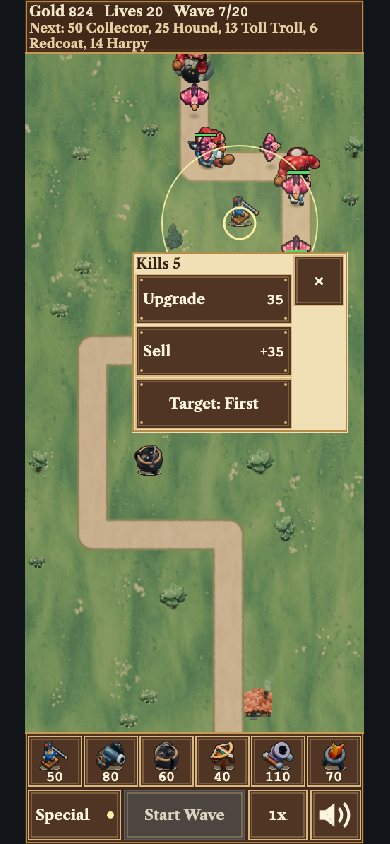
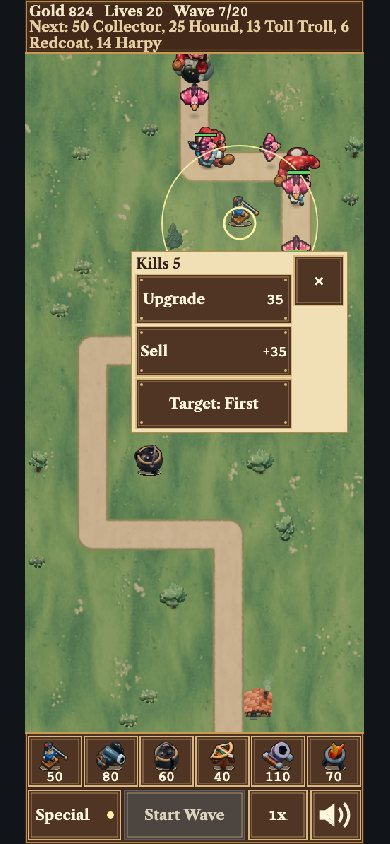
Keep refunds separated and long phone previews at reading size

Changed region(s): [[0.3077, 0.2773, 0.8923, 0.5237], [0.0615, 0.0, 0.8923, 0.0616], [0.6769, 0.4005, 0.7385, 0.4313]]

diff --git a/src/game/ui/towerPanel.ts b/src/game/ui/towerPanel.ts
@@ -16,7 +16,7 @@ import { placeBeside, type Rect } from '../input';
 import { fontPx, type Layout } from '../layout';
 import { killsLabel, PANEL_TEXT, targetingButtonText, towerPanelTitle } from '../names';
 import { FONT, TEXT } from '../palette';
-import { ink, panel, THEME } from './theme';
+import { ink, THEME } from './theme';
 import { Button } from './button';
 import { STACK_GAP, STACK_PAD } from './geometry';
 import { getPathChoices, towerPanelSize, UPGRADE_PATHS, type PathChoice } from './towerPanelModel';
@@ -36,7 +36,7 @@ interface Row {
 }
 
 export class TowerPanel {
-  private readonly backing: Phaser.GameObjects.Graphics;
+  private readonly backing: Phaser.GameObjects.Rectangle;
   private readonly upgrade: Button;
   private readonly undo: Button;
   private readonly sell: Button;
@@ -60,10 +60,11 @@ export class TowerPanel {
     const f = (px: number) => fontPx(layout, layout.kind === 'portrait' ? Math.max(20, px) : px);
     const rect = { x: 0, y: 0, width: 1, height: 1 };
     const portrait = layout.kind === 'portrait';
-    this.backing = scene.add.graphics().setVisible(false);
+    this.backing = scene.add.rectangle(0, 0, 1, 1, THEME.paper)
+      .setOrigin(0).setStrokeStyle(2, THEME.brass).setVisible(false);
     this.upgrade = new Button(scene, rect, PANEL_TEXT.upgrade, () => handlers.onUpgrade(), { fontSize: f(16), right: '' });
     this.undo = new Button(scene, rect, PANEL_TEXT.undoUpgrade, handlers.onUndoUpgrade, { fontSize: f(14), right: '' });
-    this.sell = new Button(scene, rect, PANEL_TEXT.sell, handlers.onSell, { fontSize: f(16), right: '' });
+    this.sell = new Button(scene, rect, PANEL_TEXT.sell, handlers.onSell, { fontSize: f(16), right: '', labelInset: 6 });
     this.target = new Button(scene, rect, targetingButtonText('first'), () => handlers.onTarget(nextMode(this.mode)), { fontSize: f(13) });
     this.closeButton = new Button(scene, rect, '×', handlers.onClose, { fontSize: portrait ? '30px' : '24px' });
     const pathButton = (path: UpgradePath) => new Button(scene, rect, '', () => handlers.onUpgrade(path), {
@@ -154,7 +155,7 @@ export class TowerPanel {
     if (this.placed?.width !== width || this.placed.height !== height) {
       const location = placeBeside(this.layout.cellCenter(this.at), width, height, state.map, this.layout);
       this.placed = { ...location, width, height };
-      panel(this.backing.clear().setVisible(true), this.placed, THEME.paper);
+      this.backing.setPosition(location.x, location.y).setSize(width, height).setVisible(true);
     }
     const { x, y } = this.placed;
     const left = x + STACK_PAD;

diff --git a/src/game/ui/button.ts b/src/game/ui/button.ts
@@ -15,6 +15,8 @@ import { COLORS, HUD_FONT, TEXT } from '../palette';
 
 export interface ButtonOptions {
   fontSize?: string;
+  /** Horizontal inset for paired labels. */
+  labelInset?: number;
   /** Right-aligned second label; makes the main label left-aligned. */
   right?: string;
   /** Called with true when the pointer enters and false when it leaves (or the button hides). */
@@ -27,8 +29,6 @@ export interface ButtonOptions {
   sound?: SoundName | null;
 }
 
-const PAD_X = 10;
-
 export class Button {
   private readonly box: Phaser.GameObjects.Rectangle;
   private readonly trim: Phaser.GameObjects.Graphics;
@@ -36,6 +36,7 @@ export class Button {
   private readonly rightLabel: Phaser.GameObjects.Text | null;
   private readonly onHover?: (over: boolean) => void;
   private readonly labelY?: number;
+  private readonly labelInset: number;
   private r: Rect;
   private enabled = true;
   private hover = false;
@@ -54,6 +55,7 @@ export class Button {
     this.r = { ...rect };
     this.onHover = options.onHover;
     this.labelY = options.labelY;
+    this.labelInset = options.labelInset ?? 10;
     const style = { fontFamily: HUD_FONT, fontSize: options.fontSize ?? '18px', fontStyle: 'bold', color: TEXT.button };
     this.box = scene.add.rectangle(0, 0, rect.width, rect.height, COLORS.button).setOrigin(0, 0);
     this.trim = scene.add.graphics();
@@ -162,8 +164,8 @@ export class Button {
     }
     const mid = y + (this.labelY ?? this.r.height / 2);
     if (this.rightLabel) {
-      this.label.setPosition(x + PAD_X, mid);
-      this.rightLabel.setPosition(x + this.r.width - PAD_X, mid);
+      this.label.setPosition(x + this.labelInset, mid);
+      this.rightLabel.setPosition(x + this.r.width - this.labelInset, mid);
     } else {
       this.label.setPosition(x + this.r.width / 2, mid);
     }

diff --git a/src/game/hud.ts b/src/game/hud.ts
@@ -342,7 +342,7 @@ export const PORTRAIT_HUD: HudMetrics = (() => {
     statSize: size,
     goldX: 6,
     flowGap: 14,
-    preview: { x: 6, y: 29, width: PORTRAIT_WIDTH - 12, originY: 0 },
+    preview: { x: 6, y: 28, width: PORTRAIT_WIDTH - 12, originY: 0 },
     cheat: { x: PORTRAIT_WIDTH - 6, y: 15, size, originX: 1 },
     gold: { x: 0, y: 0, width: 120, height: 30 },
     special,
@@ -484,7 +484,12 @@ export class Hud {
         this.next.setWordWrapWidth(width, true).setText(preview).setColor(aimText === null ? TEXT.hudDim : TEXT.aimBanner);
         const availableHeight = PORTRAIT_STRIP_H - 2 - m.preview.y;
         for (const size of [20, 19, 18, 16, 14]) {
-          this.next.setFontSize(size);
+          // At 20 px the actual Caslon glyphs in previews and aim hints occupy
+          // 17 px above the baseline and 6 below it. Courier fits inside both.
+          // Two 23 px lines exactly fill the space between the stats and frame.
+          const ascent = Math.ceil(17 * size / 20);
+          const descent = Math.ceil(6 * size / 20);
+          this.next.setStyle({ fontSize: size, metrics: { ascent, descent, fontSize: ascent + descent } });
           if (this.next.height <= availableHeight && this.next.width <= width) break;
         }
       } else this.next.setFontSize(previewSize(preview)).setText(preview);

diff --git a/e2e/theme.ts b/e2e/theme.ts
@@ -79,6 +79,15 @@ export function themeSuite(touch: boolean) {
         const hudRow = phone ? { x: 0, y: 0, width: 480, height: 76 } : { x: 0, y: 480, width: 960, height: 53 };
         const status = await api(page, t => t.hudText());
         await checkLabels(page, [status.gold, status.lives, status.wave, preview], hudRow, /^(special|startWave|speed|boon:)/);
+        if (phone) {
+          const cssSize = await api(page, t => {
+            const scene = t.game.scene.getScene('game');
+            const label = scene.children.list.find(child => child.type === 'Text' &&
+              (child as Phaser.GameObjects.Text).text === t.hudText().next) as Phaser.GameObjects.Text;
+            return Number.parseFloat(label.style.fontSize) * label.scaleY / scene.scale.displayScale.y;
+          });
+          expect(cssSize).toBeGreaterThanOrEqual(14);
+        }
         await shot(campaign ? 'level-9-preview' : 'free-play-wave-20');
         const spawn = lastSpawnTick(wave, campaign ? { level: LEVELS[8] } : undefined);
         await page.evaluate(spawn => {

diff --git a/docs/DESIGN.md b/docs/DESIGN.md
@@ -1227,7 +1227,7 @@ drawn and where touches land differ.
   each the tower's map shape over its cost, because a name at 18 px does
   not fit 75 px) and a row with Special (130 x 70), Start Wave (214 x 70)
   and speed (114 x 70); milestone 33 narrowed Start Wave to 170 and speed
-  to 82 for the 70 x 70 mute button at the row's end ("Sound"). The tower buttons are 4 px apart and the second row's 6 px; both rows start 5 px from the edge. The main portrait controls use 20 px type. The next-wave preview fits two lines in the remaining strip height.
+  to 82 for the 70 x 70 mute button at the row's end ("Sound"). The tower buttons are 4 px apart and the second row's 6 px; both rows start 5 px from the edge. The main portrait controls use 20 px type. The next-wave preview starts at y=28. Two 23 px lines fit above the brass edge at y=74. At 390 × 844 the 20 px type reads at 14.1 CSS px and a 70 px button measures 49.5 CSS px.
   On a 390 x 763 CSS px phone (standalone, inside the safe areas) the
   canvas fits at 0.639: buttons are 44.7 CSS px, 20 px text 12.8 CSS px and a
   map cell 20.5 CSS px. With Safari's bars (390 x 664) the scale is 0.556:
@@ -1766,7 +1766,7 @@ panel with Back or Escape keeps it available on the next Play. Free play skips
 this panel. Test mode follows the same rules unless a test calls
 `setTipsEnabled(false)` to skip first-visit tips.
 
-The build bar keeps every tower in its usual slot. Towers unavailable in
+The paired Remove/Sell label and refund use a 6 px inset to separate three-digit amounts. The build bar keeps every tower in its usual slot. Towers unavailable in
 this level appear dimmed with a lock and cannot be selected. The tower
 panel offers upgrades up to the level’s tier limit. At a campaign cap
 below tier three, it shows “Max for this level” beside the kill count. From wave one, the specials menu lists the level’s specials. Wave unlock

diff --git a/assets/MANIFEST.md b/assets/MANIFEST.md
@@ -1,9 +1,9 @@
 # Asset manifest
 
 Every file under `assets/`, `docs/art/` and `public/icons/` is listed here
-with its source, author and license. Only CC0, or CC-BY with a credit line
-in Notes (`Credit: ...`), may be committed (docs/SCOPE-v3.md, "Hard
-rules"). Repo-generated work carries MIT. Libre Caslon Text carries SIL OFL
+with its source, author and license. Third-party art uses CC0 or CC-BY
+with a credit line in Notes (`Credit: ...`) as specified in docs/SCOPE-v3.md.
+Repo-generated work carries MIT. Libre Caslon Text carries SIL OFL
 1.1. Its rows pin each downloaded file by SHA-256 and name the bundled license.
 `npm run check:assets` (scripts/check-asset-manifest.ts) fails CI if a file
 is missing from the table, carries another license, or a row points at no

diff --git a/DEVLOG.md b/DEVLOG.md
@@ -9335,3 +9335,9 @@ figures retain the typewriter advances. Both weights must load before the
 two-second deadline to prevent a late change in measured label widths.
 The browser checks exercise a blocked font through a purchase and wave,
 tall fallback metrics in both menus and the HUD, and cached fonts offline.
+
+The browser suite caught three-digit refunds crowding Remove. Moving the
+paired labels four pixels toward each edge recovered the gap. A phone
+measurement also caught the longest preview shrinking to 12.7 CSS px.
+Measured glyph bounds allowed two 23 px lines at the full 20 px canvas
+size, including when the font request is blocked.
